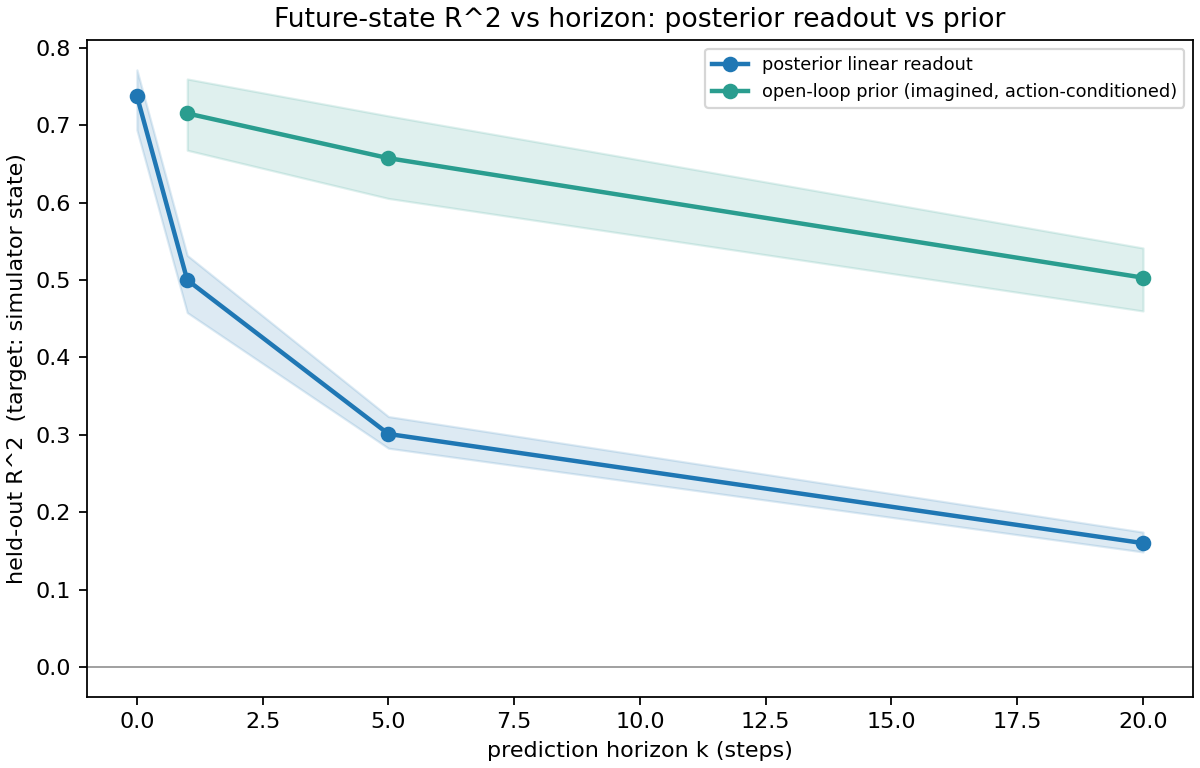
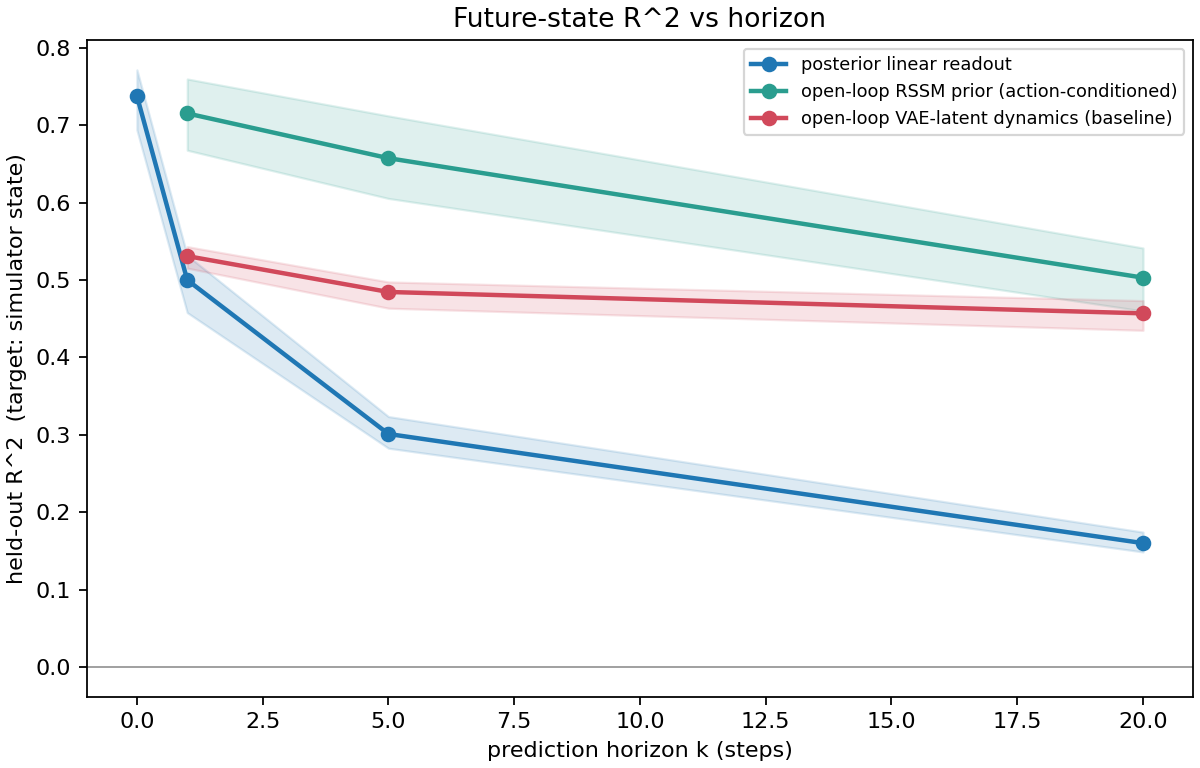
Add VAE dynamics analysis to the report

Changed region(s): [[0.1542, 0.3125, 0.9558, 0.4375], [0.5858, 0.0625, 0.9867, 0.1875], [0.2158, 0.0, 0.8325, 0.0625]]

diff --git a/final_report/iclr2026/report.tex b/final_report/iclr2026/report.tex
@@ -39,9 +39,12 @@ RSSM's deterministic state and only weakly by its categorical stochastic latent;
 (ii) the static VAE's per-frame latents, aggregated post-hoc over the past,
 match and slightly exceed the RSSM at current-state decoding, while a few recent
 frames do not. For prediction, the RSSM's action-conditioned prior reaches
-$R^2\approx0.50$ at a 20-step horizon, compared with $0.16$ for a linear readout
-of its posterior, and the recurrent posterior makes gait phase linearly
-decodable. Finally, generative likelihood and probe \rtwo{} decouple: the RSSM
+$R^2\approx0.50$ at a 20-step horizon, versus $0.16$ for a linear readout of its
+posterior and $0.46$ for a learned dynamics model in the static VAE's latent
+space; under the primary linear probe, the RSSM leads at every horizon, though
+the margin narrows as the horizon grows. The recurrent posterior also makes gait
+phase linearly decodable. Finally, generative likelihood and probe \rtwo{}
+decouple: the RSSM
 has lower reconstruction NLL than the VAE without a matching gain in linearly
 decodable state.
 \end{abstract}
@@ -181,7 +184,9 @@ discounted return-to-go; time-to-fall).
 \item \textbf{Probe site:} encoder output; RSSM posterior ($h_t$ and $\mathbb{E}[z_t]$,
 also probed separately); RSSM prior, both one-step and open-loop $k$-step
 (roll the prior forward with the recorded actions and probe the imagined state);
-VAE encoder output; VAE latent mean.
+VAE encoder output; VAE latent mean; and the VAE latent rolled open-loop by a
+learned action-conditioned dynamics model (\S\ref{sec:pred}), the static analog
+of the RSSM prior.
 \item \textbf{Receptive field:} the VAE latent with a growing causal temporal
 window. For $K\in\{1,4,16\}$ we concatenate the most recent $K$ latents; for
 $K{=}\text{all}$ we concatenate the current latent with the causal mean of all
@@ -203,9 +208,10 @@ log-likelihood, computed identically for both models (\S\ref{sec:setup}).
 are the mean). \textbf{Left:} current simulator state ($h{=}0$) is decoded
 equally well by the encoder, RSSM posterior, RSSM deterministic state, and the
 VAE ($\approx0.7$); the categorical stochastic latent alone is a weaker linear
-code ($\approx0.40$). \textbf{Right:} a linear readout of future state from the
-posterior decays quickly; rolling the action-conditioned prior forward
-(open-loop imagination) retains higher future-state \rtwo{}.}
+code ($\approx0.40$). \textbf{Right:} future-state \rtwo{} versus horizon. A linear readout of the
+posterior decays quickly; under the primary linear probe, the open-loop RSSM
+prior retains the most; a learned dynamics model rolled in the static VAE latent
+space is a strong baseline that narrows the gap.}
 \label{fig:probes}
 \end{figure}
 
@@ -235,10 +241,22 @@ $\approx0.50$ versus $0.16$ for a linear readout of the same future state from
 the posterior, roughly three times the future-state content. The pattern also
 appears under the MLP: the prior still reaches $R^2\approx0.43$
 at $20$ steps while the posterior readout falls to about zero. The RSSM's learned
-dynamics, not a readout of the current latent, carry the future. This compares
-two read-outs of the RSSM; we do not equip the VAE with a learned transition
-model, so the result locates the RSSM's predictive content rather than claiming
-it forecasts better than a static representation with its own dynamics. Appendix
+dynamics, not a readout of the current latent, carry the future. To test whether
+this reflects the sequential representation or merely the presence of a dynamics
+model, we give the static VAE its own: a forward model $g(z_t,a_t)\approx
+z_{t+1}-z_t$ trained on the probe train episodes with a curriculum multi-step
+rollout loss and rolled open-loop. This baseline recovers far more future state
+than the static latent readout ($R^2 = 0.53,\,0.49,\,0.46$ at $k=1,5,20$ versus
+$0.32,\,0.19,\,0.11$), so much predictive content is accessible from a static
+representation once it has a learned transition model. Under the primary linear
+probe, the RSSM prior still leads at every horizon and within every seed
+($0.72,\,0.66,\,0.50$ versus $0.53,\,0.49,\,0.46$), giving the RSSM a clear
+linear-probe advantage over a static representation equipped with dynamics,
+rather than only over a static readout. The margin is largest at short horizon
+($+0.18$ at $k=1$) and narrows to $+0.05$ at $k=20$, where the two approach a
+similar ceiling. Under the MLP, the RSSM and VAE-dynamics models remain
+separated at $k=1$ and $k=5$ but are essentially tied at $k=20$, so we treat the
+head-to-head advantage as strongest in the linear-probe setting. Appendix
 Figure~\ref{fig:openloop} visualizes a single open-loop rollout and the
 prediction error growing with horizon.
 
@@ -321,12 +339,16 @@ Static VAE reconstruction      & 1.58 & 1.95 & 1.77 \\
 Across a comparison that holds the encoder, decoder, observation model, and data
 fixed, the sequential generative latent does not encode more about the current
 observable state than a static VAE; a hand-specified causal summary of the static
-model's past latents matches it. Within the RSSM, the future-state information
-lives in the action-conditioned prior, which forecasts $20$ steps ahead with
-higher \rtwo{} than a linear readout of the posterior under both probe families;
-we read this as locating the RSSM's predictive content, not as a claim that it
-forecasts better than a static representation equipped with its own dynamics. The
-RSSM also makes gait phase linearly decodable, though a nonlinear probe recovers
+model's past latents matches it. The RSSM's future-state information lives in its
+action-conditioned prior, which forecasts with higher \rtwo{} than a linear
+readout of the posterior under both probe families. Equipping the static VAE with
+its own learned dynamics is a strong baseline that recovers much of this content.
+Under the primary linear probe, the RSSM prior still leads at every horizon and
+within every seed ($0.50$ versus $0.46$ at $20$ steps), giving the RSSM a
+measurable advantage over a static representation equipped with dynamics; under
+the MLP, the advantage is clear at short horizons but becomes a tie at $20$
+steps. The RSSM also makes gait phase linearly decodable, though a nonlinear
+probe recovers
 most of that from the static latent, so this is an advantage of linear
 accessibility, not evidence that the static model lacks the information.
 Separately, the RSSM has lower reconstruction NLL than the VAE without a matching gain in what a
@@ -339,10 +361,10 @@ categorical, its prior and objective differ, and the probed posterior feature is
 higher-dimensional ($640$ versus $128$). We report matched-width stochastic- and
 deterministic-state probes to control for dimensionality, but the other
 differences remain, so sequential structure is the principal factor behind any
-gap, not the sole one. The predictive result (\S\ref{sec:pred}) compares
-two read-outs of the RSSM; we do not train an action-conditioned dynamics model
-on VAE features, so it locates the RSSM's predictive content rather than showing
-superiority over a static representation with its own dynamics. We report a
+gap, not the sole one. The VAE-latent dynamics baseline (\S\ref{sec:pred}) is one
+forward-model design trained on the probe episodes; a stronger architecture or
+more pretraining data could narrow the remaining gap, which is already small at
+long horizon. We report a
 pooled, variance-weighted $R^2$ over state dimensions, which counts high-variance
 components such as velocities more; per-component probing is left to future work.
 We study one domain (Walker), one modality (proprioception, where a single frame
@@ -412,9 +434,12 @@ VAE uses the same encoder and decoder architecture, with a $128$-dimensional Gau
 latent, $\beta{=}1$, trained from scratch for $60$K steps (Adam, lr
 $3\times10^{-4}$) on each seed's replay buffer. Probes use ridge
 (regularization selected on a validation split) and a two-hidden-layer,
-width-$256$ ReLU MLP. The probe set is $40$ held-out episodes of $1000$ steps
-from the frozen evaluation policy with logged physics state. All figures are
-regenerated by
+width-$256$ ReLU MLP. The VAE-latent dynamics baseline is a two-hidden-layer
+width-$256$ residual MLP trained with a curriculum multi-step rollout loss (the
+rollout length ramped $1\to20$) for $6000$ steps (Adam, lr $10^{-3}$, gradient
+clip $1.0$) on the probe train episodes. The probe set is $40$ held-out episodes
+of $1000$ steps from the frozen evaluation policy with logged physics state. All
+figures are regenerated by
 \texttt{result\_images/build\_summary\_figures.py} from the per-seed outputs.
 
 \end{document}

diff --git a/result_images/build_summary_figures.py b/result_images/build_summary_figures.py
@@ -96,7 +96,7 @@ def fig_future_horizon(tabs):
     ax.plot(xs, m, 'o-', color=c, lw=2, label=lab)
   ax.set_xlabel('prediction horizon k (steps)')
   ax.set_ylabel('held-out R^2  (target: simulator state)')
-  ax.set_title('Future-state R^2 vs horizon: posterior readout vs prior')
+  ax.set_title('Future-state R^2 vs horizon')
   ax.axhline(0, color='#888888', lw=0.7)
   ax.legend(fontsize=8)
   fig.savefig(OUT / 'future_state_r2_by_horizon_posterior_vs_prior.png',

diff --git a/result_images/RESULTS.md b/result_images/RESULTS.md
@@ -27,14 +27,18 @@ generative latent is intrinsically richer per frame.
 ### `future_state_r2_by_horizon_posterior_vs_prior.png`
 ![](future_state_r2_by_horizon_posterior_vs_prior.png)
 
-**This is where the world model earns its keep.** Reading the future linearly
-off the posterior decays fast (R² 0.74 → 0.50 → 0.30 → 0.16 at k = 0/1/5/20).
-But rolling the **prior forward with the recorded actions** (imagination) stays
-far higher (0.72 → 0.66 → 0.50 at k = 1/5/20). At a 20-step horizon the
-action-conditioned prior retains ≈ 0.50 vs ≈ 0.16 for a static readout — i.e.
-the learned dynamics carry roughly **3× more future-state information** than
-linear extrapolation of the current latent. The sequential model's value is
-predictive, not in current-state encoding.
+**This is where the world model earns its keep, but the static baseline is now
+stronger.** Reading the future linearly off the RSSM posterior decays fast
+(R² 0.74 → 0.50 → 0.30 → 0.16 at k = 0/1/5/20). Rolling the **RSSM prior
+forward with the recorded actions** stays higher (0.72 → 0.66 → 0.50 at
+k = 1/5/20). A learned action-conditioned dynamics model in the static VAE's
+latent space also recovers much of the future state (0.53 → 0.49 → 0.46). Under
+the primary ridge probe, the RSSM prior still leads at every horizon and within
+every seed, but the gap narrows from +0.18 at 1 step to +0.05 at 20 steps. Under
+the MLP probe, the RSSM and VAE-dynamics baselines are essentially tied at the
+longest horizon. The sequential model's value is predictive, not in
+current-state encoding, and the head-to-head advantage is strongest in the
+linear-probe setting.
 
 ---
 
@@ -110,8 +114,10 @@ the horizon.
 Beyond a static VAE, the sequential generative latent does **not** encode more
 about the current observable state (a frame-stacking static model matches it).
 Its genuine advantages are (1) **cyclic/dynamical structure** — gait phase,
-+0.21 R² — and (2) **action-conditioned future state** via its learned dynamics
-(prior R² ≈ 0.50 at 20 steps vs 0.16 for static extrapolation). Generative
++0.21 R² — and (2) **action-conditioned future state** via learned dynamics.
+Against a learned VAE-latent dynamics baseline, the RSSM prior is better under
+the primary linear probe (R² ≈ 0.50 vs 0.46 at 20 steps), with the advantage
+narrowing at long horizon and becoming a tie under the MLP probe. Generative
 fidelity (reconstruction/prediction NLL) improves strongly with capacity and
 training while linear state-decodability saturates early, so the two evaluation
 lenses agree only partially.
